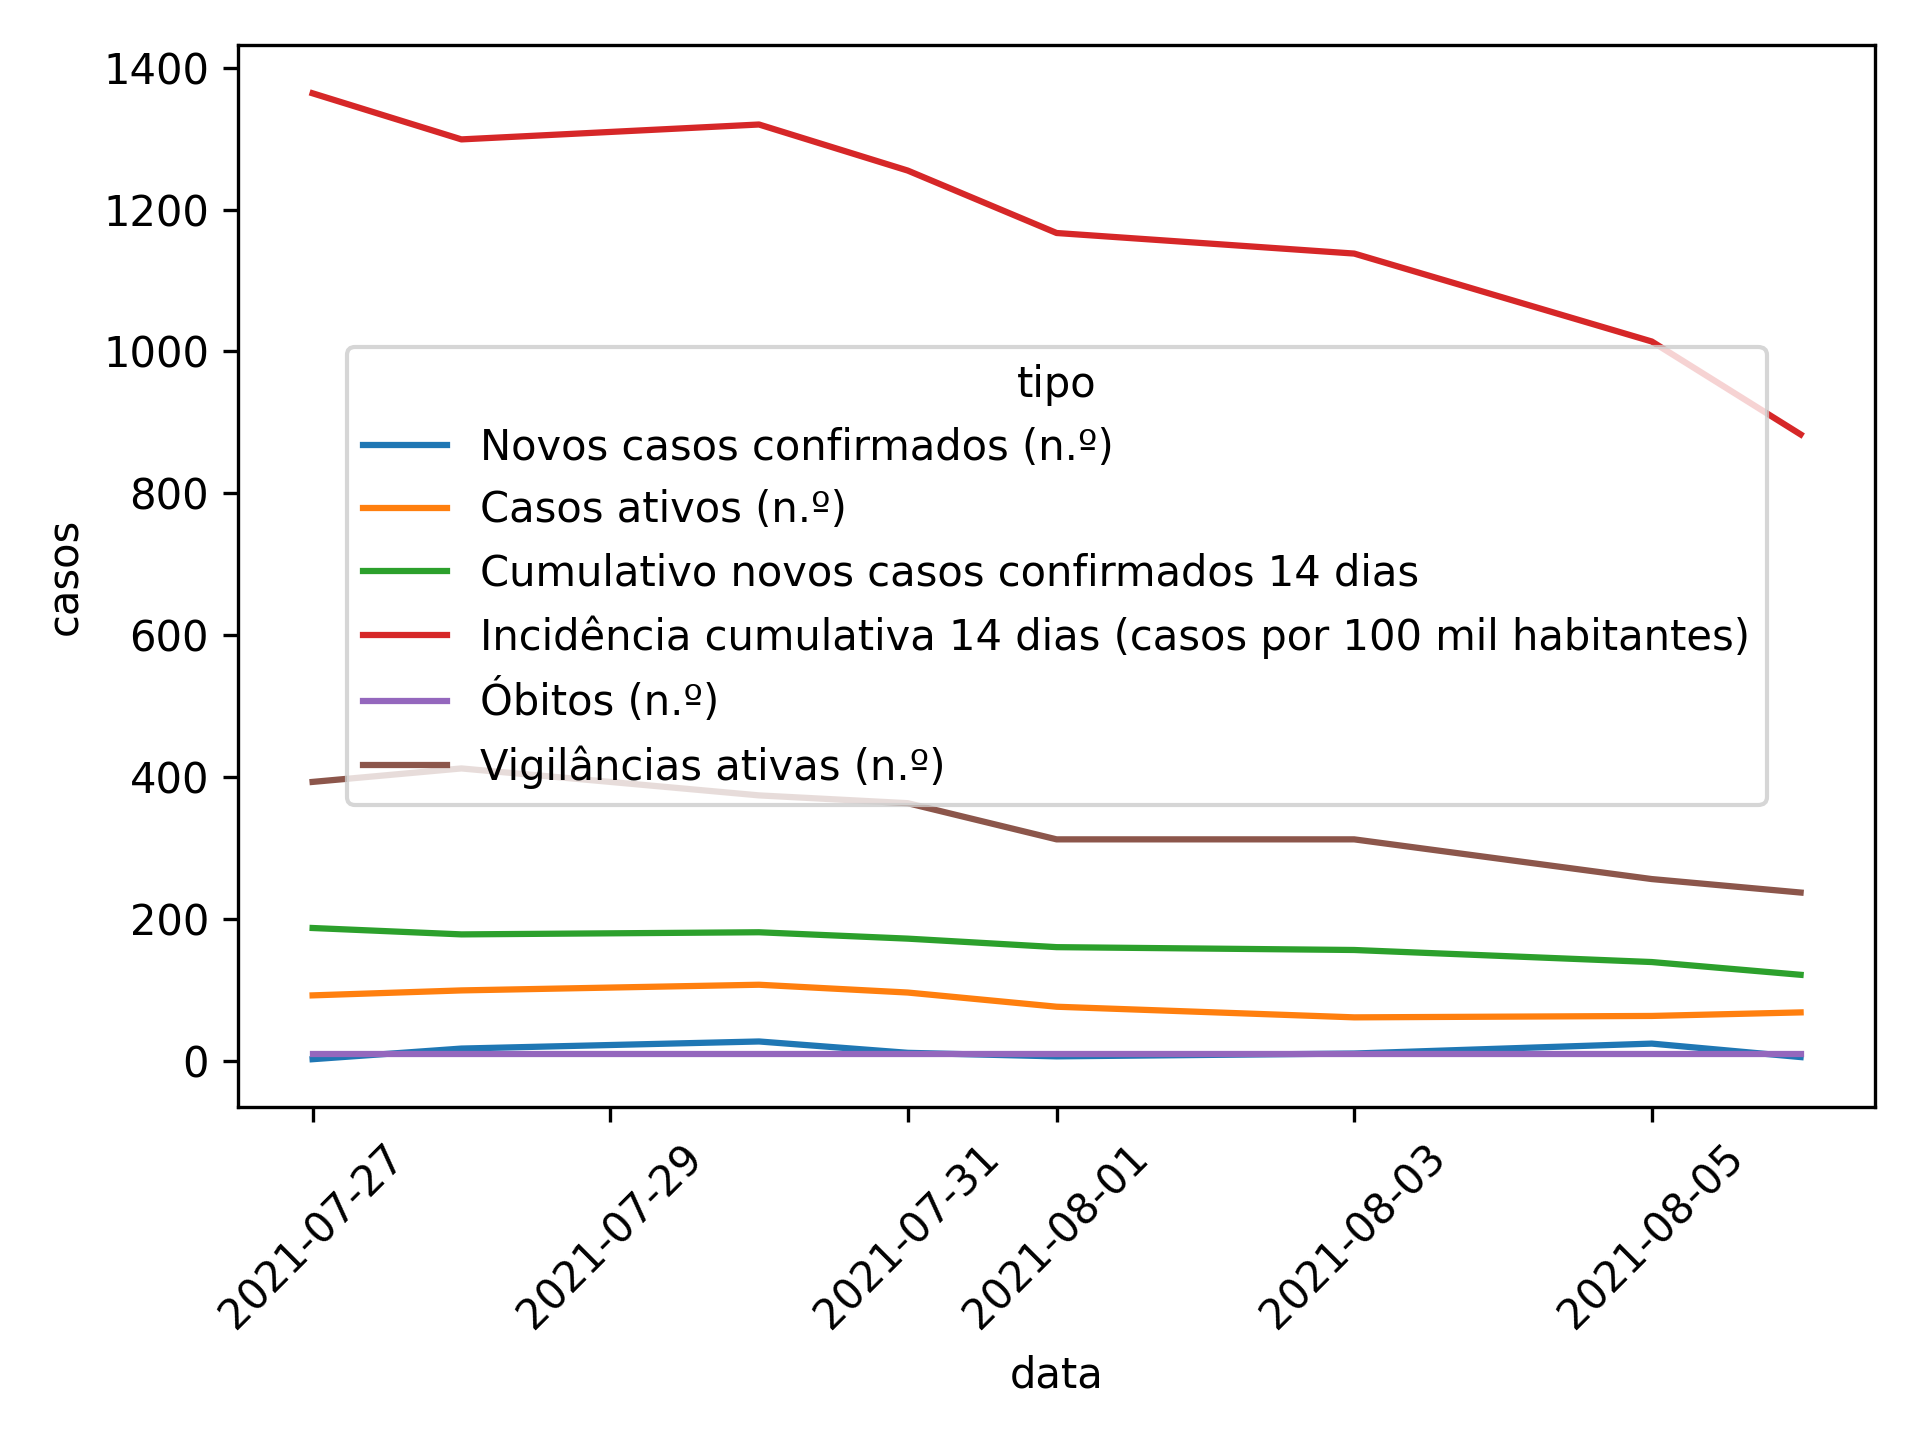
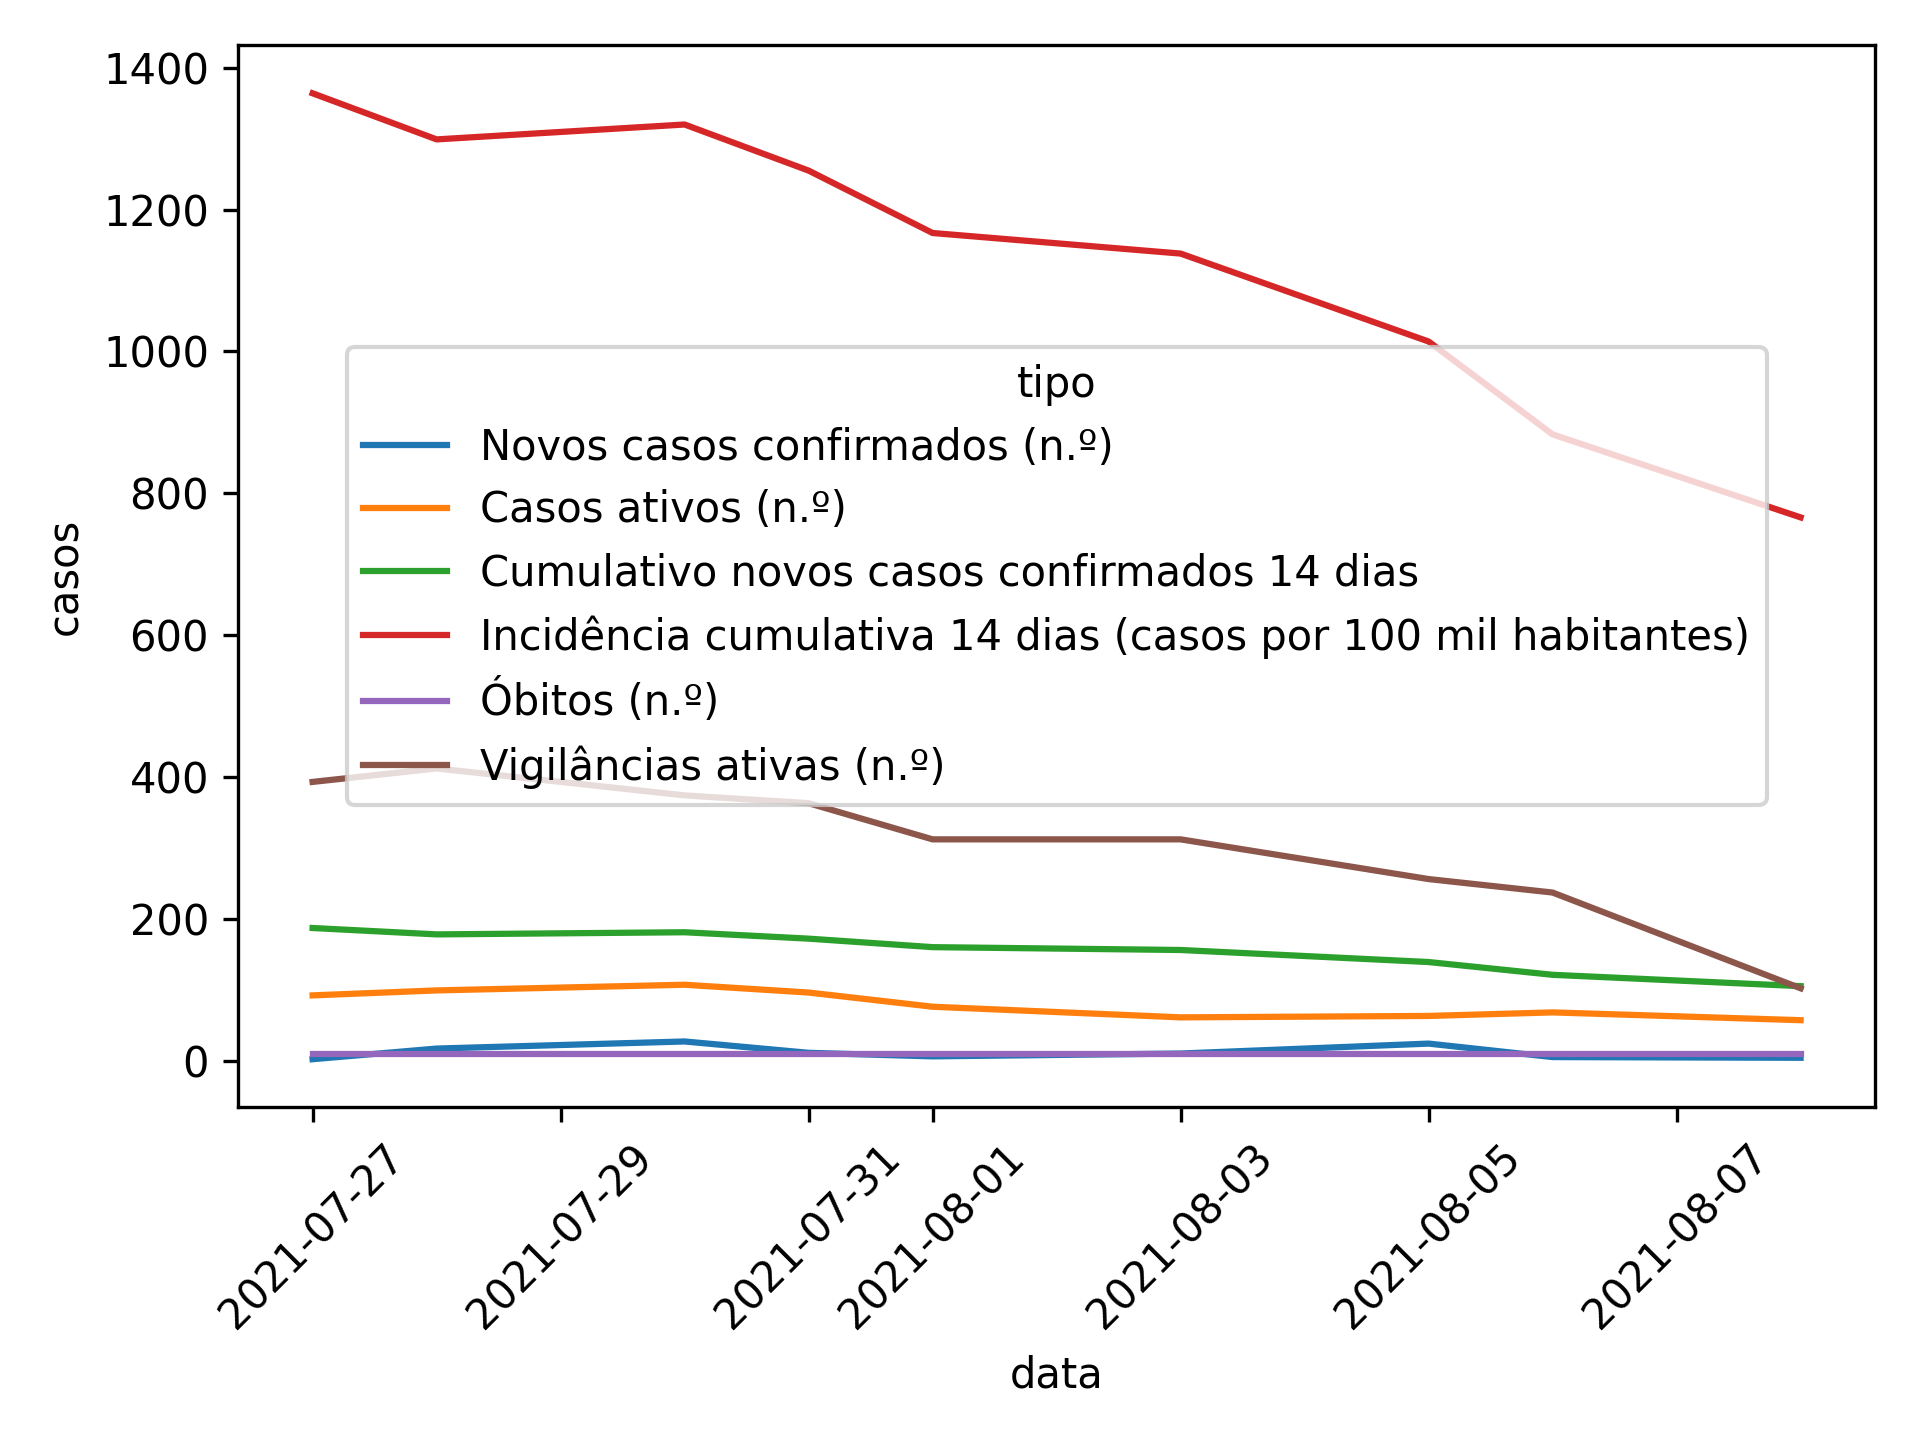
Apply automatic changes

diff --git a/README.md b/README.md
@@ -14,3 +14,4 @@
 | 03-08-2021 |                              10 |                   61 |                                          156 |                                                           1138 |             10 |                        312 |
 | 05-08-2021 |                              24 |                   63 |                                          139 |                                                           1014 |             10 |                        256 |
 | 06-08-2021 |                               5 |                   68 |                                          121 |                                                            883 |             10 |                        237 |
+| 08-08-2021 |                               4 |                   57 |                                          105 |                                                            766 |             10 |                        102 |
